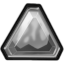
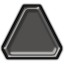
- Augments

diff --git a/src/main/java/pinacolada/resources/pcl/PCLCoreTooltips.java b/src/main/java/pinacolada/resources/pcl/PCLCoreTooltips.java
@@ -105,6 +105,7 @@ public class PCLCoreTooltips extends PCLTooltips {
     public EUIKeywordTooltip afterImage = EUIKeywordTooltip.findByID("After Image");
     public EUIKeywordTooltip afterlife = EUIKeywordTooltip.findByID("Afterlife");
     public EUIKeywordTooltip artifact = EUIKeywordTooltip.findByID("Artifact");
+    public EUIKeywordTooltip augment = EUIKeywordTooltip.findByID("Augment");
     public EUIKeywordTooltip autoplay = EUIKeywordTooltip.findByID("Autoplay");
     public EUIKeywordTooltip blinded = EUIKeywordTooltip.findByID("Blinded");
     public EUIKeywordTooltip blur = EUIKeywordTooltip.findByID("Blur");
@@ -197,7 +198,6 @@ public class PCLCoreTooltips extends PCLTooltips {
     public EUIKeywordTooltip slow = EUIKeywordTooltip.findByID("Slow");
     public EUIKeywordTooltip sorcery = EUIKeywordTooltip.findByID("Sorcery");
     public EUIKeywordTooltip soulbound = EUIKeywordTooltip.findByID("Soulbound");
-    public EUIKeywordTooltip specialAugment = EUIKeywordTooltip.findByID("Special Augment");
     public EUIKeywordTooltip stabilize = EUIKeywordTooltip.findByID("Stabilize");
     public EUIKeywordTooltip stance = EUIKeywordTooltip.findByID("Stance");
     public EUIKeywordTooltip starter = EUIKeywordTooltip.findByID("Starter");

diff --git a/src/main/java/pinacolada/ui/cardView/PCLAugmentListItem.java b/src/main/java/pinacolada/ui/cardView/PCLAugmentListItem.java
@@ -32,13 +32,13 @@ public class PCLAugmentListItem extends EUIHoverable {
         super(new EUIHitbox(0, 0, AbstractRelic.PAD_X, AbstractRelic.PAD_X));
         this.augment = new PCLAugmentRenderable(augment, hb);
         this.panel = panel;
-        title = new EUILabel(FontHelper.cardTitleFont, new RelativeHitbox(hb, scale(360), scale(360), hb.width * titleOffset, hb.height / 2))
+        title = new EUILabel(FontHelper.cardTitleFont, new RelativeHitbox(hb, scale(360), scale(360), hb.width * titleOffset, hb.height * 0.7f))
                 .setFontScale(0.85f)
                 .setLabel(augment.getName())
                 .setColor(Settings.GOLD_COLOR)
                 .setAlignment(0.5f, 0.01f);
         amountText = new
-                EUILabel(FontHelper.cardTitleFont, RelativeHitbox.fromPercentages(hb, 1, 1, amountOffset, 0.5f))
+                EUILabel(FontHelper.cardTitleFont, RelativeHitbox.fromPercentages(hb, 1, 1, amountOffset, 0.7f))
                 .setAlignment(0.5f, 0.5f)
                 .setLabel(getAmountString(amount))
                 .setFontScale(0.75f);

diff --git a/src/main/java/pinacolada/augments/PCLAugmentCategory.java b/src/main/java/pinacolada/augments/PCLAugmentCategory.java
@@ -33,6 +33,16 @@ public enum PCLAugmentCategory implements CountingPanelItem {
 
     @Override
     public Texture getIcon() {
+        switch (this) {
+            case Summon:
+                return PCLCoreImages.CardUI.augmentSummon.texture();
+            case Played:
+                return PCLCoreImages.CardUI.augmentPlayed.texture();
+            case Power:
+                return PCLCoreImages.CardUI.augmentPower.texture();
+            case Special:
+                return PCLCoreImages.CardUI.augmentSpecial.texture();
+        }
         return PCLCoreImages.CardUI.augmentBase.texture();
     }
 
@@ -41,7 +51,7 @@ public enum PCLAugmentCategory implements CountingPanelItem {
             case Summon:
                 return PGR.core.tooltips.summon.title;
             case Played:
-                return PGR.core.tooltips.play.title;
+                return PGR.core.tooltips.attack.title + "/" + PGR.core.tooltips.skill.title;
             case Power:
                 return PGR.core.tooltips.power.title;
             case General:

diff --git a/src/main/java/pinacolada/resources/pcl/PCLCoreImages.java b/src/main/java/pinacolada/resources/pcl/PCLCoreImages.java
@@ -96,6 +96,10 @@ public class PCLCoreImages extends PCLImages {
         public static final TextureCache orbTopLayer4 = new TextureCache("images/pcl/ui/energy/TopLayer4.png");
         public static final TextureCache augmentSlot = new TextureCache("images/pcl/cardui/augments/AugmentSlot.png", true);
         public static final TextureCache augmentBase = new TextureCache("images/pcl/cardui/augments/AugmentBase.png", true);
+        public static final TextureCache augmentPlayed = new TextureCache("images/pcl/cardui/augments/AugmentPlayed.png", true);
+        public static final TextureCache augmentPower = new TextureCache("images/pcl/cardui/augments/AugmentPower.png", true);
+        public static final TextureCache augmentSummon = new TextureCache("images/pcl/cardui/augments/AugmentSummon.png", true);
+        public static final TextureCache augmentSpecial = new TextureCache("images/pcl/cardui/augments/AugmentSpecial.png", true);
     }
 
     public static class CardIcons {

diff --git a/src/main/java/pinacolada/augments/PCLAugment.java b/src/main/java/pinacolada/augments/PCLAugment.java
@@ -106,8 +106,7 @@ public abstract class PCLAugment implements KeywordProvider {
     public String getFullText() {
         String reqs = getReqsString();
         return EUIUtils.joinTrueStrings(EUIUtils.SPLIT_LINE,
-                EUIRM.strings.generic2(PCLCoreStrings.headerString(PGR.core.tooltips.level.title, data.tier), data.category.getName()),
-                data.isSpecial ? PCLCoreStrings.colorString("r", PGR.core.tooltips.specialAugment.title) : null,
+                PCLCoreStrings.colorString("p", EUIRM.strings.numAdjNoun(EUIRM.strings.numNoun(PGR.core.strings.misc_tier, data.tier), data.category.getName(), PGR.core.tooltips.augment.title)), // TODO show unremovable string if data is special
                 reqs != null ? PCLCoreStrings.headerString(PGR.core.strings.misc_requirement, getReqsString()) : reqs,
                 getPowerText());
     }

diff --git a/src/main/java/pinacolada/ui/cardView/PCLAugmentButtonListItem.java b/src/main/java/pinacolada/ui/cardView/PCLAugmentButtonListItem.java
@@ -18,7 +18,7 @@ public class PCLAugmentButtonListItem extends PCLAugmentListItem {
         super(panel, augment, count, 1.4f, 4.2f, enabled);
         this.amount = count;
         amountText.setColor(Settings.BLUE_TEXT_COLOR);
-        background = new EUIImage(ImageMaster.REWARD_SCREEN_ITEM, RelativeHitbox.fromPercentages(hb, 5, 1.12f, 2.2f, 0.6f))
+        background = new EUIImage(ImageMaster.REWARD_SCREEN_ITEM, RelativeHitbox.fromPercentages(hb, 5, 1.12f, 2.2f, 0.7f))
                 .setBackgroundTexture(ImageMaster.REWARD_SCREEN_ITEM, new Color(0.2f, 0.4f, 0.4f, 1f), 1.05f)
                 .setColor(new Color(0.45f, 0.6f, 0.6f, 1f));
     }

diff --git a/src/main/java/pinacolada/ui/cardView/PCLAugmentList.java b/src/main/java/pinacolada/ui/cardView/PCLAugmentList.java
@@ -83,7 +83,7 @@ public class PCLAugmentList extends EUICanvasGrid {
         int row = 0;
         int column = 0;
 
-        sortButton.setTargetPosition(X_START, Y_START + scrollDelta + padY).updateImpl();
+        sortButton.setTargetPosition(X_START, Y_START + scrollDelta + padY + scale(20)).updateImpl();
 
         for (int i = 0; i < augments.size(); i++) {
             PCLAugmentListItem item = augments.get(i);

diff --git a/src/main/java/pinacolada/ui/menu/PCLAugmentCollectionScreen.java b/src/main/java/pinacolada/ui/menu/PCLAugmentCollectionScreen.java
@@ -106,7 +106,7 @@ public class PCLAugmentCollectionScreen extends EUIPoolScreen {
                 addItem.invoke(augment, amount);
             }
         }
-        EUI.countingPanel.openManual(GameUtilities.augmentStats(entries), null, false);
+        EUI.countingPanel.openManual(GameUtilities.augmentStats(entries), __ -> {}, false);
         if (panel.augments.size() == 0) {
             close();
         }
